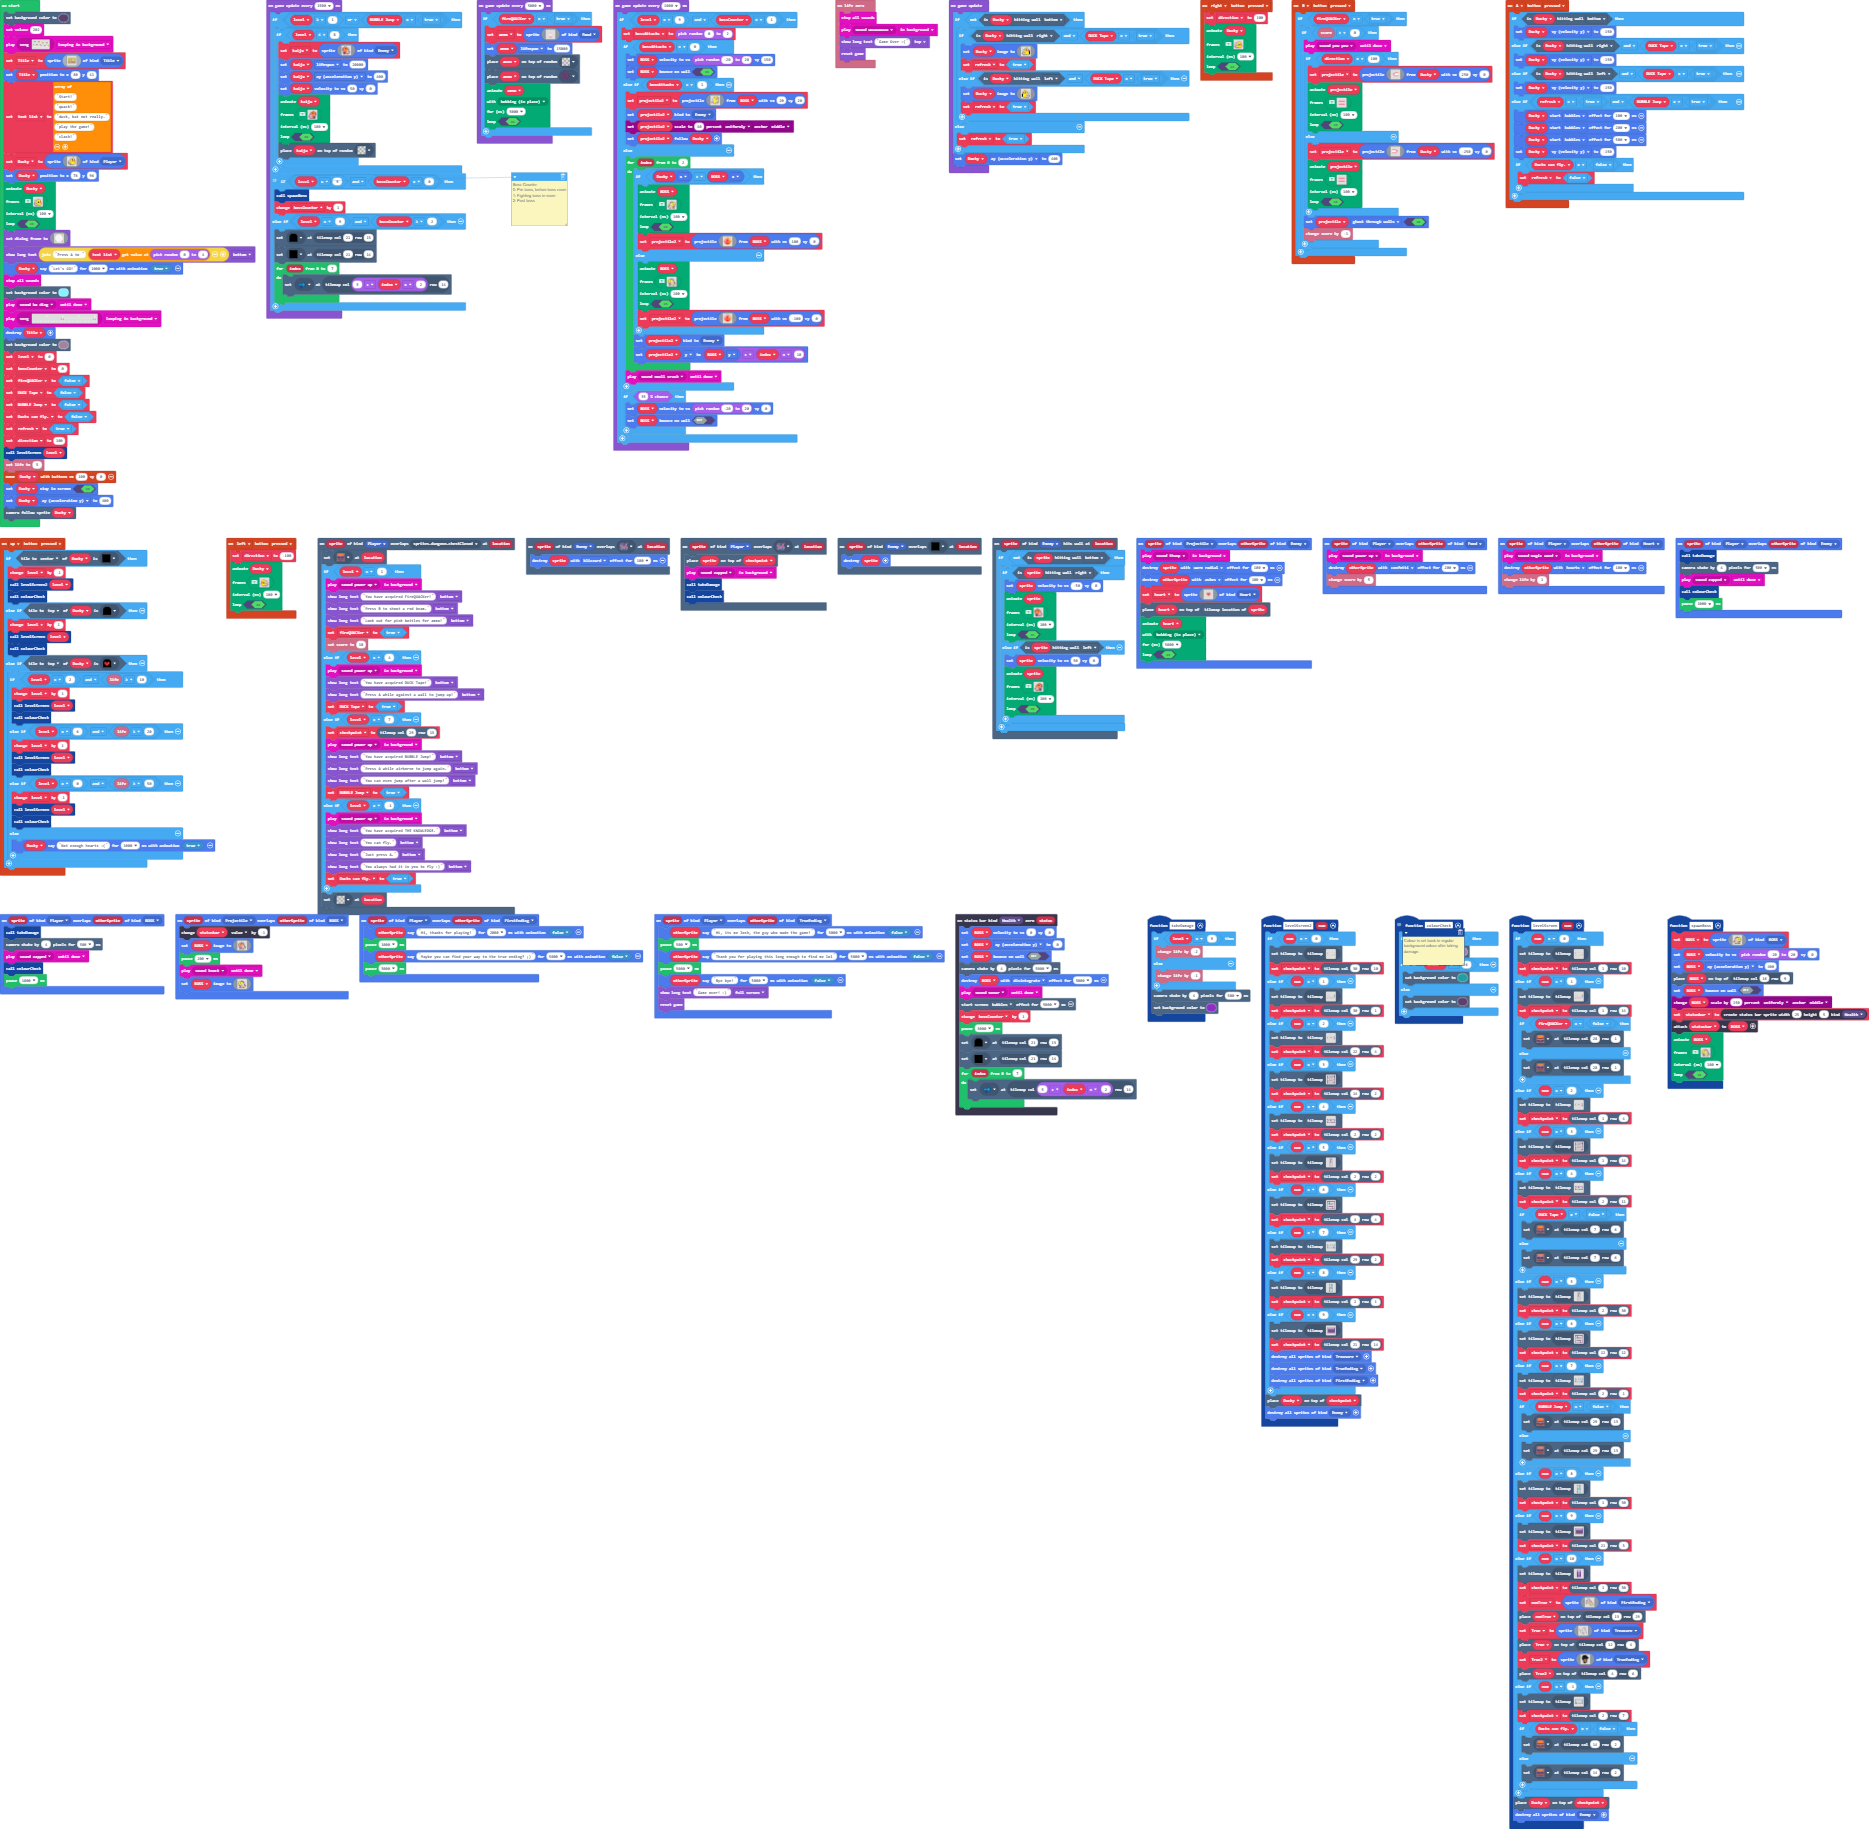
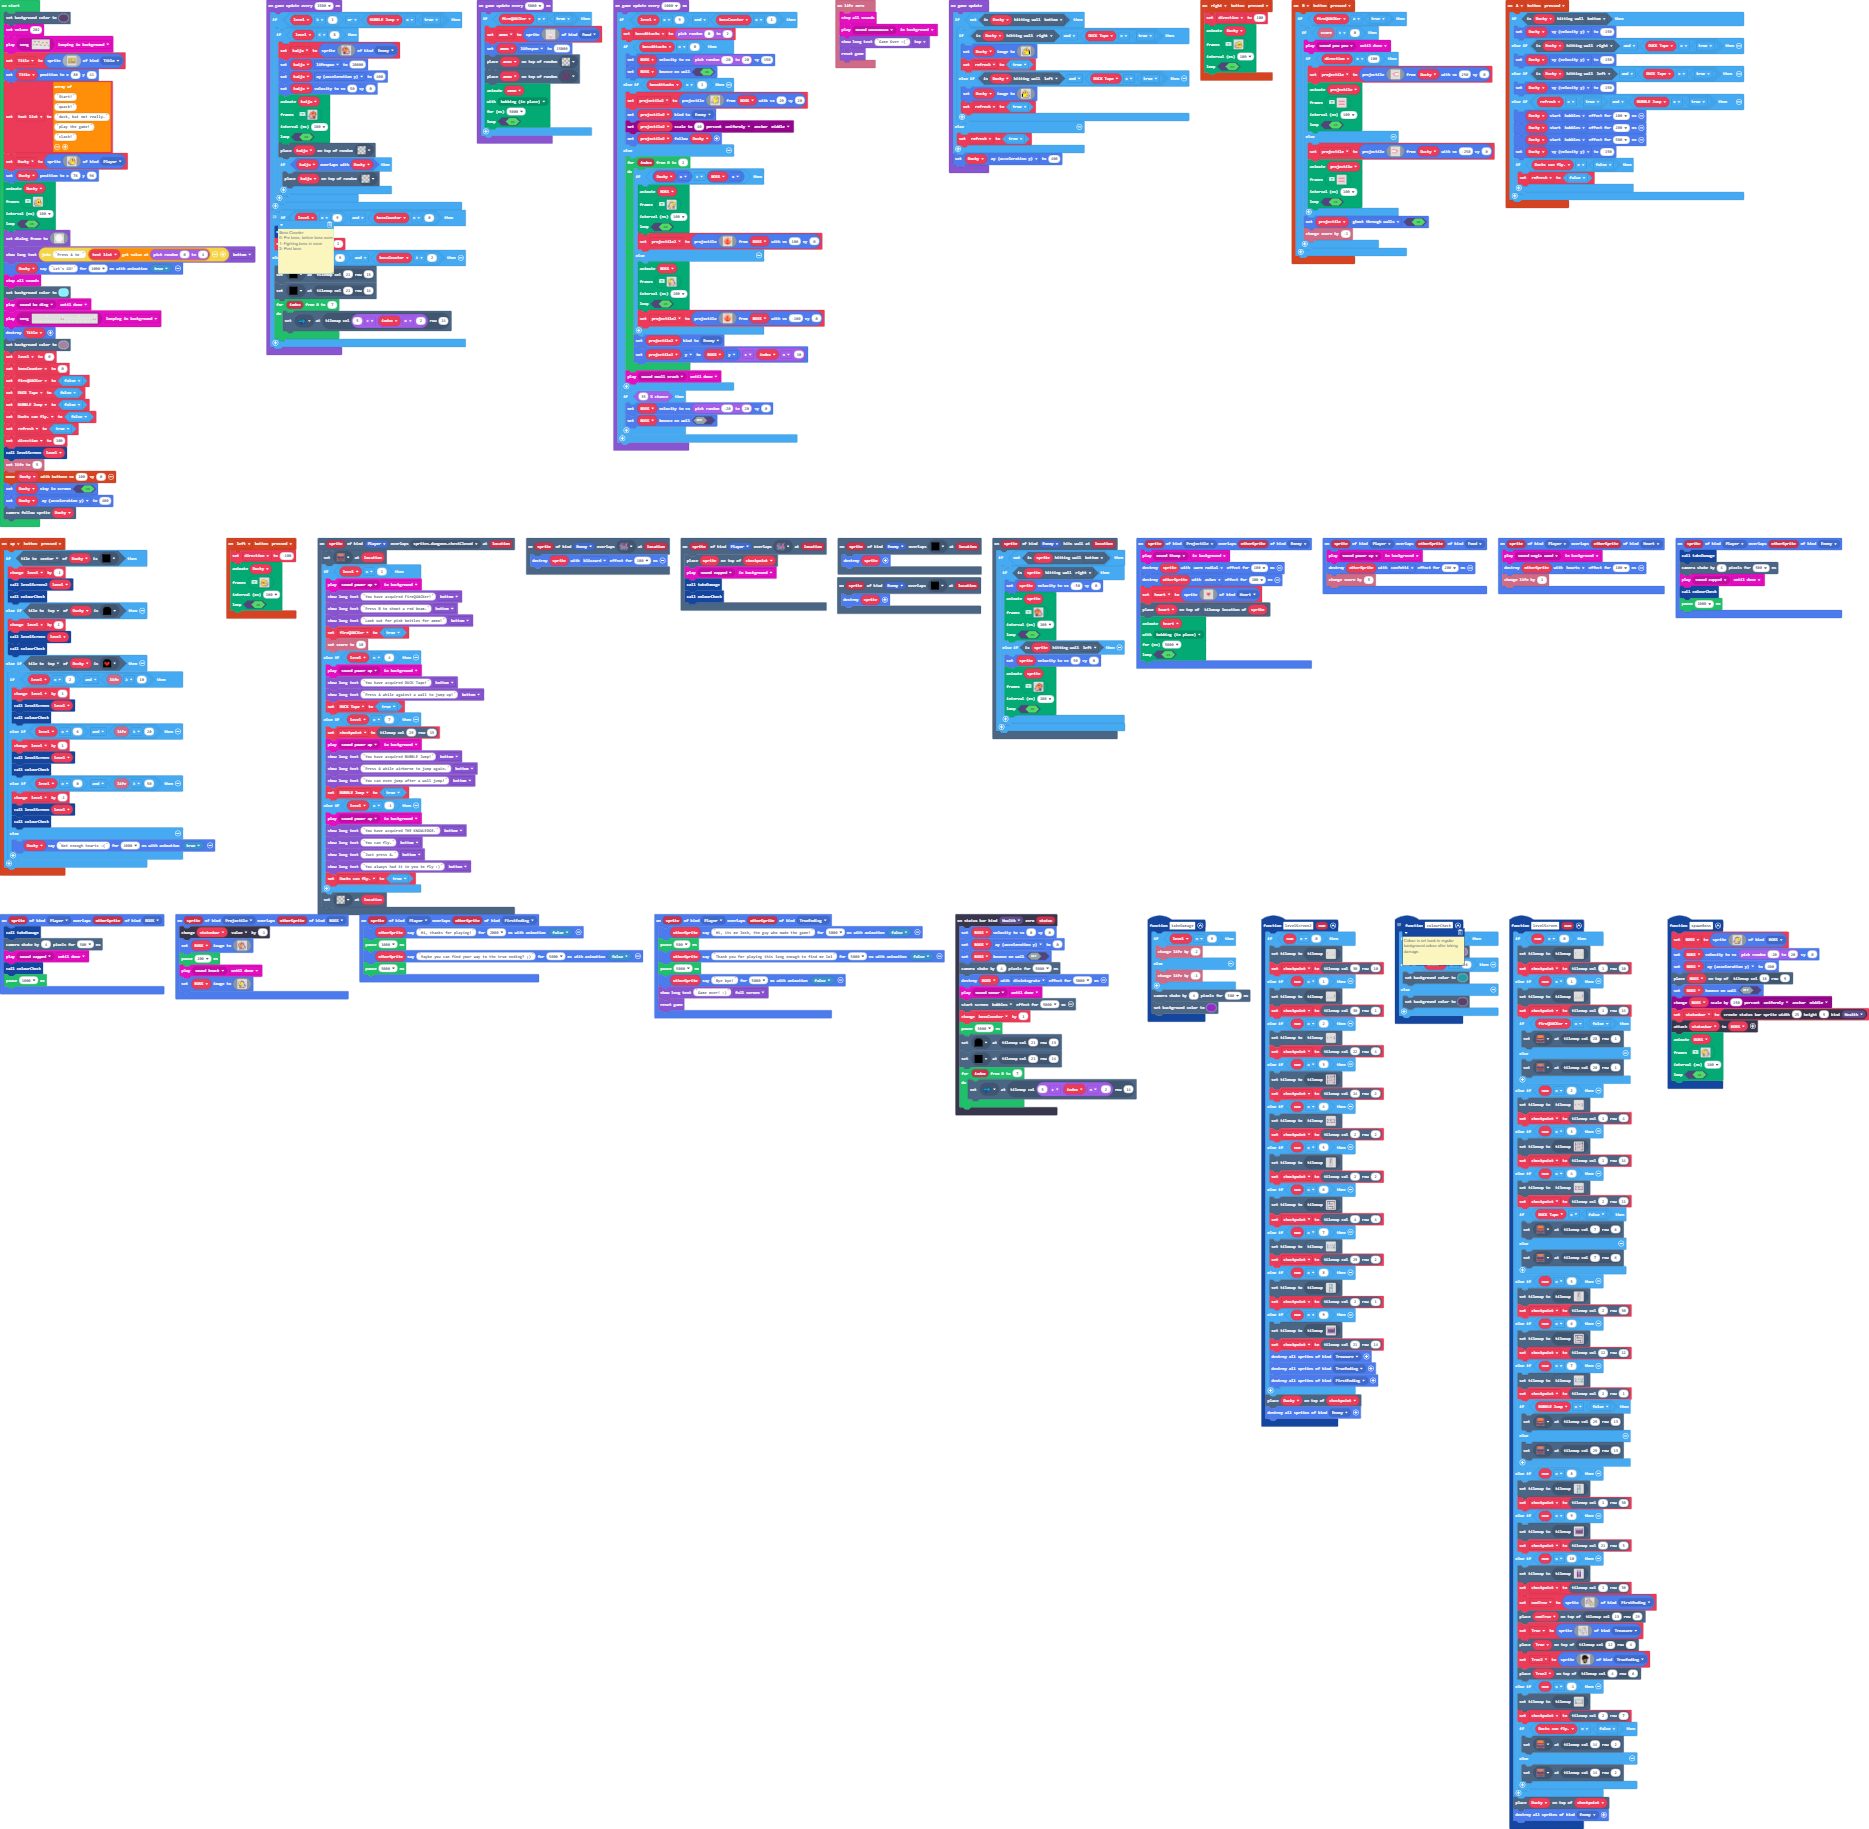
Better enemy spawn, enemy dissapears on back doors.

Changed region(s): [[0.1241, 0.0623, 0.3103, 0.2182], [0.4345, 0.3116, 0.5276, 0.3428]]

diff --git a/tilemap.g.ts b/tilemap.g.ts
@@ -35,8 +35,6 @@ namespace myTiles {
     //% fixedInstance jres blockIdentity=images._tile
     export const tile19 = image.ofBuffer(hex``);
     //% fixedInstance jres blockIdentity=images._tile
-    export const tile20 = image.ofBuffer(hex``);
-    //% fixedInstance jres blockIdentity=images._tile
     export const tile21 = image.ofBuffer(hex``);
     //% fixedInstance jres blockIdentity=images._tile
     export const tile15 = image.ofBuffer(hex``);
@@ -900,25 +898,6 @@ namespace myTiles {
 2 2 2 2 . . . . . . . . . . . . . . . . 2 2 2 2 
 2 2 2 2 2 2 2 2 2 2 2 2 2 2 2 2 2 2 2 2 2 2 2 2 
 `, [myTiles.transparency16,myTiles.tile8,myTiles.tile9,myTiles.tile12,myTiles.tile14,myTiles.tile3,myTiles.tile15,myTiles.tile7,myTiles.tile18], TileScale.Sixteen);
-            case "level43":
-            case "level43":return tiles.createTilemap(hex`18001000020202020202020202020202020202020202020202020202020000000000000000000000000000000000000000000002020000000000000000000000000000000000000000010002020000000000000000000000000000000000000000030002020000020202020202020202020202020202020202020202020000020404040404040404040404040404040404040402020000020404040404040404040404040404040404040402020000020404040204040404040404040404040204040402020000020404040404040404040404040404040404040402020000020404040404040404040404040404040404040402020000020404040404040404040404040404040404040402020000020404040404040404040404040404040404040402020000020404040404040404040404040404040404040402020000000404040404040404040404040404040404040402020000000404040404040404040404040404040404040402020202020202020202020202020202020202020202020202`, img`
-222222222222222222222222
-2......................2
-2......................2
-2......................2
-2..222222222222222222222
-2..2...................2
-2..2...................2
-2..2...2...........2...2
-2..2...................2
-2..2...................2
-2..2...................2
-2..2...................2
-2..2...................2
-2......................2
-2......................2
-222222222222222222222222
-`, [myTiles.transparency16,myTiles.tile9,myTiles.tile10,myTiles.tile15,sprites.dungeon.darkGroundCenter], TileScale.Sixteen);
             case "level39":
             case "level39":return tiles.createTilemap(hex`1000100001010107070701010101010101010101010202020202020202020202020202010102000000000000000000000000020101000000050800000000000000000001010000000300000000000000000000010100000707070101010101010100000101000007070702020202010101000001010000000000000000000000000000010100000000000000000000000000000101000000000000000000000000000001010000010101010101010101010000010100000101010202020201010100000101000000000000000000000000000001010000000000000000000004000000010100000000000000000000060000000101010101010101010101010101010101`, img`
 2 2 2 2 2 2 2 2 2 2 2 2 2 2 2 2 
@@ -1007,6 +986,25 @@ namespace myTiles {
 ....22.................222....22
 222222...............222222..222
 `, [myTiles.transparency16,myTiles.tile8,myTiles.tile9,myTiles.tile12,myTiles.tile5,myTiles.tile13,myTiles.tile7,myTiles.tile15,myTiles.tile11], TileScale.Sixteen);
+            case "level43":
[1 lines of base64/hex data omitted]
+222222222222222222222222
+2......................2
+2......................2
+2......................2
+2..222222222222222222222
+2..2...................2
+2..2...................2
+2..2...2...........2...2
+2..2...................2
+2..2...................2
+2..2...................2
+2..2...................2
+2..2...................2
+2......................2
+2......................2
+222222222222222222222222
+`, [myTiles.transparency16,myTiles.tile9,myTiles.tile10,myTiles.tile15,sprites.dungeon.darkGroundCenter,sprites.dungeon.darkGroundSouthWest0,sprites.dungeon.darkGroundWest,sprites.dungeon.darkGroundNorthWest0,sprites.dungeon.darkGroundNorth,sprites.dungeon.darkGroundNorthEast0,sprites.dungeon.darkGroundEast,sprites.dungeon.darkGroundSouthEast0,sprites.dungeon.darkGroundSouth], TileScale.Sixteen);
         }
         return null;
     })
@@ -1046,8 +1044,6 @@ namespace myTiles {
             case "tile18":return tile18;
             case "myTile13":
             case "tile19":return tile19;
-            case "myTile14":
-            case "tile20":return tile20;
             case "myTile15":
             case "tile21":return tile21;
             case "bottom door0":

diff --git a/main.ts b/main.ts
@@ -1302,6 +1302,9 @@ sprites.onOverlap(SpriteKind.Player, SpriteKind.Food, function (sprite, otherSpr
 scene.onOverlapTile(SpriteKind.Enemy, assets.tile`bottom door`, function (sprite, location) {
     sprites.destroy(sprite)
 })
+scene.onOverlapTile(SpriteKind.Enemy, assets.tile`bottom door0`, function (sprite, location) {
+    sprites.destroy(sprite)
+})
 sprites.onOverlap(SpriteKind.Projectile, SpriteKind.Enemy, function (sprite, otherSprite) {
     music.play(music.melodyPlayable(music.thump), music.PlaybackMode.InBackground)
     sprites.destroy(sprite, effects.warmRadial, 100)
@@ -2285,6 +2288,9 @@ game.onUpdateInterval(1500, function () {
             true
             )
             tiles.placeOnRandomTile(kaiju, assets.tile`transparency16`)
+            if (kaiju.overlapsWith(Ducky)) {
+                tiles.placeOnRandomTile(kaiju, assets.tile`transparency16`)
+            }
         }
     }
     // Boss Counter
